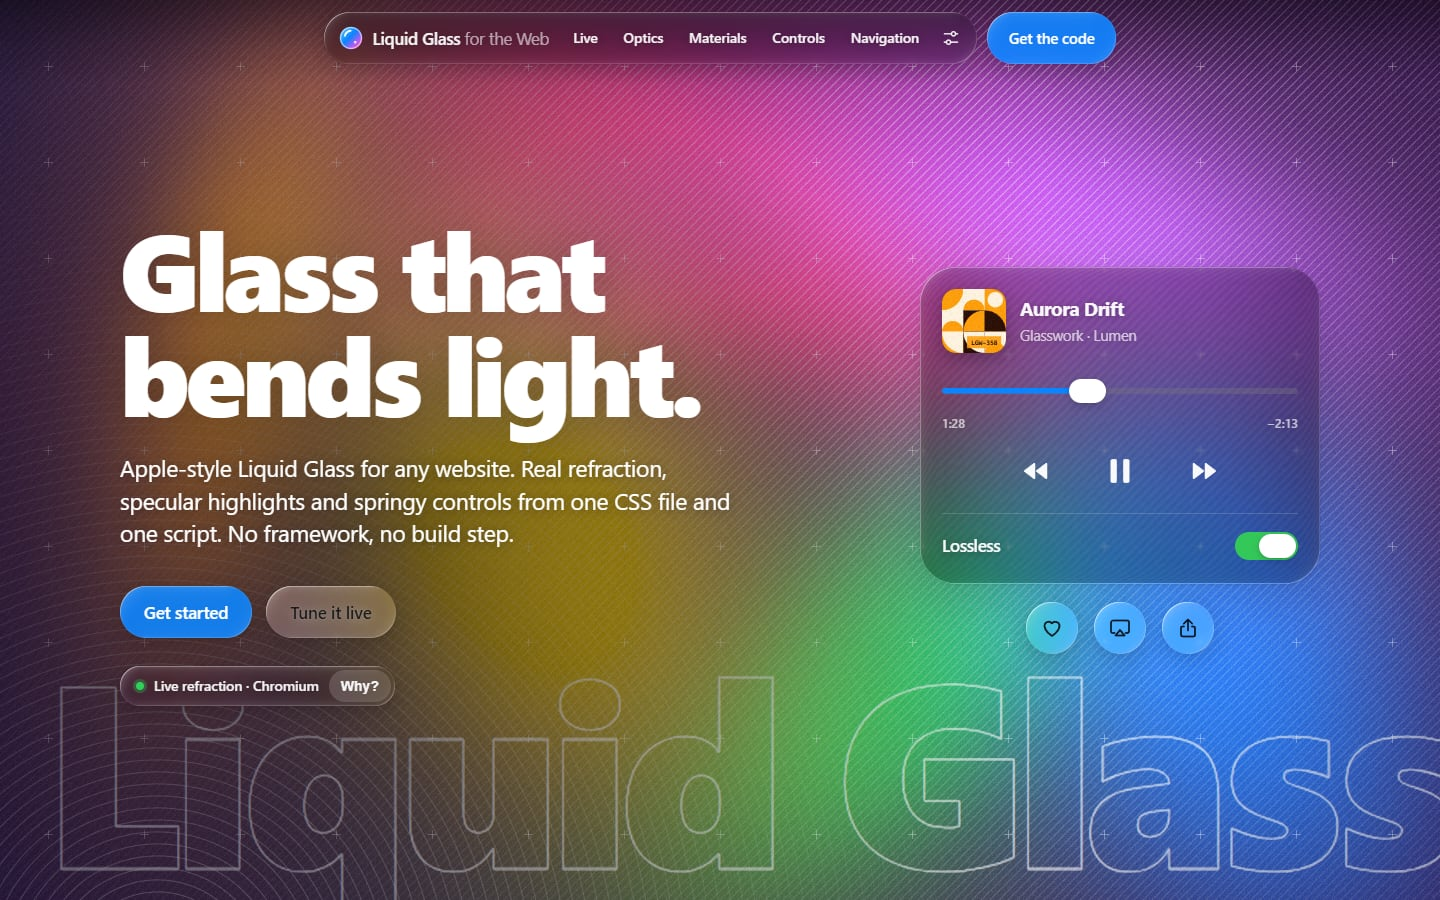
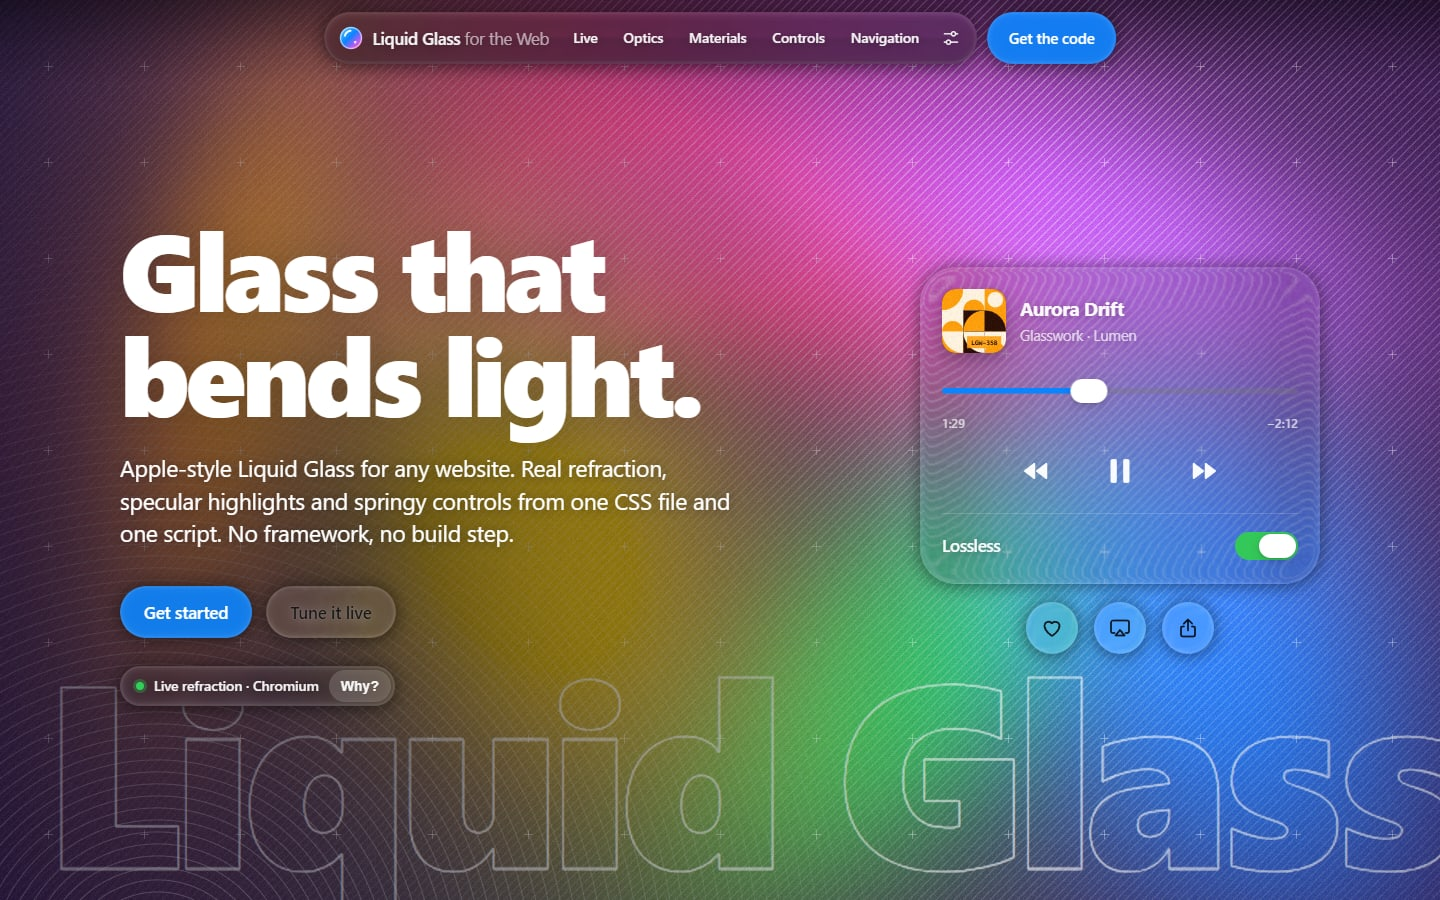
docs: README and hero for 1.2.0, thick glass
The README's new section shows the thick preset and the bevel optics, and the
pieces table lists data-glass-optics="bevel". The hero is the showcase as it
now opens, with the thick preset.

diff --git a/README.md b/README.md
@@ -48,7 +48,7 @@ Neither tier is a screenshot. The glass always shows the live page behind it. Re
 
 | Piece | Markup |
 |---|---|
-| Glass | `.glass` on any element. `data-glass="clear"` for the clear material, `data-glass-tint="#5e5ce6"` for tinted |
+| Glass | `.glass` on any element. `data-glass="clear"` for the clear material, `data-glass-tint="#5e5ce6"` for tinted, `data-glass-optics="bevel"` for thick glass |
 | Buttons | `.glass.glass-button`, with `.glass-prominent`, `.glass-icon`, `data-glass-size="small"` or `"large"`, and `data-glass-interactive` for the press effect |
 | Bars and groups | `.glass.glass-bar`, `.glass.glass-group` holding `.glass-item`s, inside a `.glass-toolbar` |
 | Tab bar | `.glass.glass-tabbar` with `<a>` or `<button>` tabs; hold a tab and drag to scrub. `data-glass-minimize="scroll"` tucks it away while the page scrolls |
@@ -76,7 +76,26 @@ The script defines `LiquidGlass` (also the default export of `liquid-glass.mjs`)
 and elements added later are picked up. To start it yourself, set `window.LiquidGlassConfig = { autoInit: false }`
 before the script and call `LiquidGlass.init()`.
 
-## New in 1.1.0: the pill resizes
+## New in 1.2.0: thick glass
+
+The showcase now opens with a new preset, **thick**: every glass is a solid slab with a round edge instead of a thin
+sheet. What passes under it bends and magnifies toward the rim, like looking through a glass rod; the rim catches
+the light and a tight shadow sits under it.
+
+```html
+<!-- every glass on the page -->
+<html data-glass-preset="thick">
+
+<!-- or one element: the bezel is the radius of the slab's round edge, in px -->
+<div class="glass" data-glass-optics="bevel" data-glass-bezel="30">…</div>
+```
+
+The look follows [liquid-glass.ybouane.com](https://liquid-glass.ybouane.com/), which paints a snapshot of the page
+through a WebGL shader. Here it is live refraction, like the rest of the library, so it follows scrolling and every
+change on the page. The iOS 26 and iOS 27 presets are unchanged and still in the Tune panel. See
+[CHANGELOG.md](CHANGELOG.md) for how it works and where it lives in the bundle.
+
+## In 1.1.0: the pill resizes
 
 - `data-glass-segments="content"` on a segmented control sizes each segment by its label instead of equally.
 - While you scrub a tab bar or a segmented control, the lifted lens takes the width of the item under it and eases
